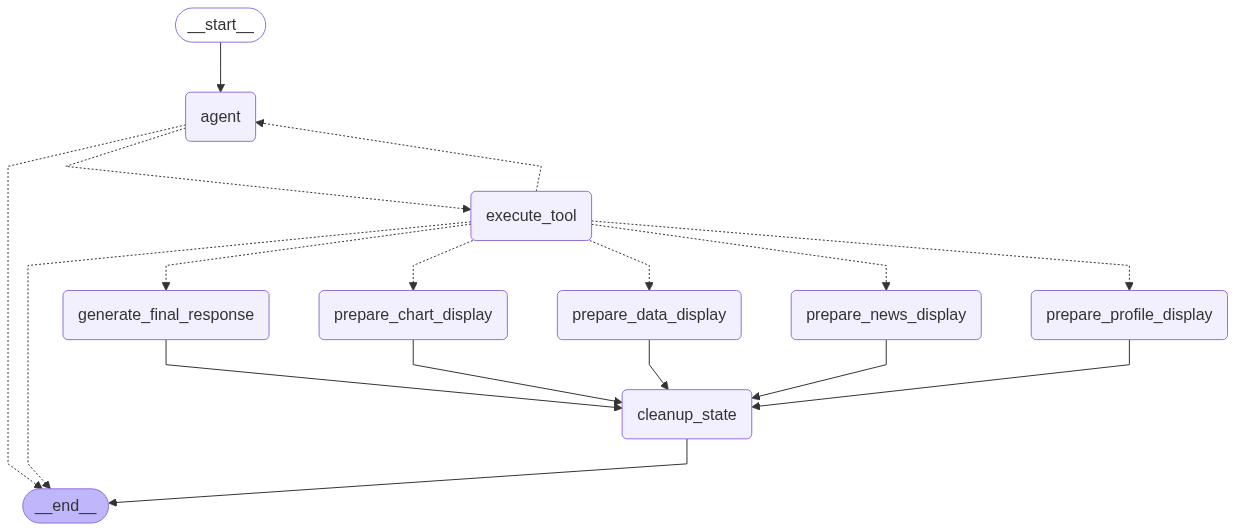
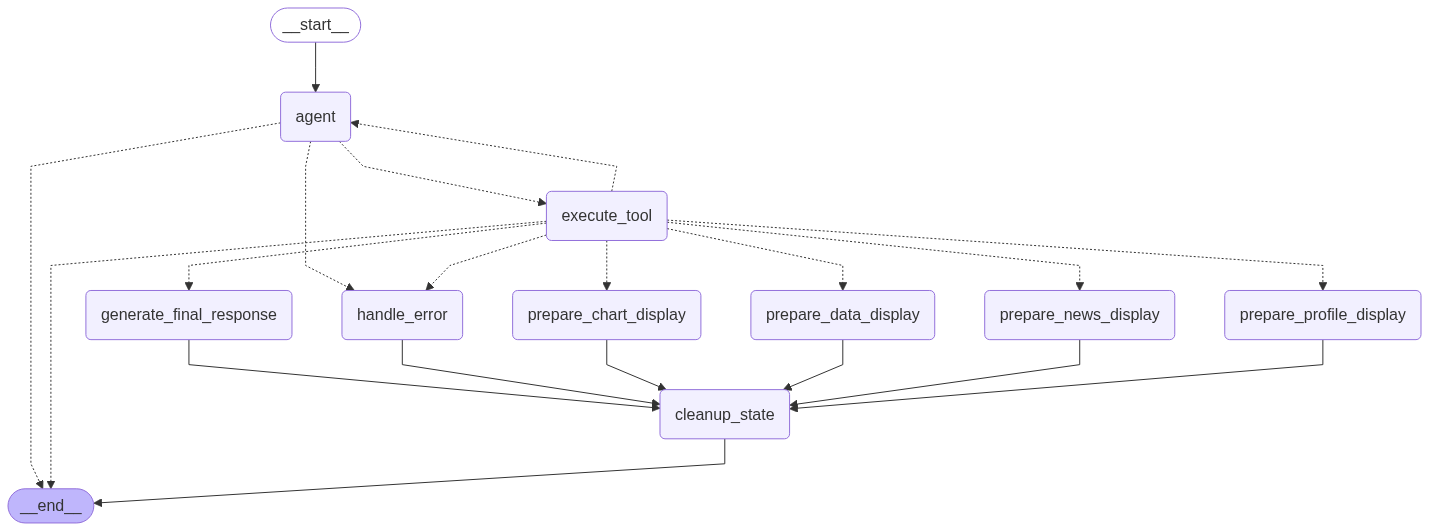
update : limites des outils et gestion des erreurs

diff --git a/agent/agent.py b/agent/agent.py
@@ -86,7 +86,6 @@ system_prompt = """Ton nom est Stella. Tu es une assistante experte financière.
 **Structure des réponses**
 Tu répondras toujours de manière structurée et claire, en utilisant du markdown pour organiser l'information.
 
-
 **Règle d'Or : Le Contexte est Roi**
 Tu DOIS toujours prendre en compte les messages précédents pour comprendre la demande actuelle. 
 Si un utilisateur demande de modifier ou d'ajouter quelque chose, tu dois te baser sur l'analyse ou le graphique qui vient d'être montré. 
@@ -97,75 +96,54 @@ Ton domaine d'expertise est STRICTEMENT l'analyse financière des actions.
 Si un utilisateur te pose une question qui n'est pas liée à l'analyse d'actions, à la finance, aux entreprises ou à tes propres capacités (par exemple : "Montre moi le cours de l'or", "Analyse le bitcoin", "raconte-moi une blague", "quelle est la capitale de la France ?", "donne-moi une recette de cuisine"), tu ne DOIS PAS utiliser d'outils.
 Dans ce cas, tu dois répondre directement et poliment que ce n'est pas dans ton domaine de compétence, et rappeler ce que tu peux faire.
 
+**Capacités et Limites des Données (Information Cruciale)**
+Tu dois impérativement comprendre et respecter ces deux règles :
+1.  **Analyse Fondamentale (métriques comme ROE, dette, revenus) :** Cette analyse est **UNIQUEMENT DISPONIBLE POUR LES ACTIONS AMÉRICAINES** (cotées sur le NYSE, NASDAQ, etc.). Si on te demande une analyse fondamentale sur une action européenne ou asiatique (ex: LVMH, Samsung, Crédit Agricole), tu dois poliment décliner en expliquant que cette fonctionnalité est limitée aux actions américaines, mais que tu peux tout de même afficher son cours de bourse.
+2.  **Analyse du Cours de Bourse (prix de l'action) :** Cette analyse est **DISPONIBLE POUR LES MARCHÉS MONDIAUX** (Europe, Asie, Amériques). Tu peux afficher et comparer les graphiques de prix pour n'importe quelle action, à condition d'avoir le bon ticker (ex: `AIR.PA` pour Airbus, `005930.KS` pour Samsung).
+
 **Liste des outils disponibles**
-1. `search_ticker`: Recherche le ticker boursier d'une entreprise à partir de son nom.
-2. `fetch_data`: Récupère les données financières fondamentales pour un ticker boursier donné.
-3. `preprocess_data`: Prépare et nettoie les données financières récupérées pour la prédiction. A utiliser si on demande les données nettoyées, pré-traitées, etc...
-4. `analyze_risks`: Prédit la performance d'une action par rapport au marché en se basant sur les données prétraitées. Ne prend en compte que les signaux négatifs extrêmes(risques de sous-performance).
-5. `display_price_chart`: Affiche un graphique de l'évolution du prix (cours) d'une action. A utiliser si on demande "le prix", "le cours", "graphique de l'action", etc. 
-6. `display_raw_data`: Affiche le tableau de données financières brutes qui ont été initialement récupérées.
-7. `display_processed_data`: Affiche le tableau de données financières traitées et nettoyées, prêtes pour l'analyse.
-8. `create_dynamic_chart`: Crée un graphique interactif basé sur les données financières prétraitées.
-9. `get_stock_news`: Récupère les dernières actualités pour un ticker donné.
-10. `get_company_profile`: Récupère le profil d'une entreprise, incluant des informations clés comme le nom, le secteur, l'industrie, le CEO, etc.
-11. `compare_stocks`: Compare plusieurs entreprises sur une métrique financière ou sur leur prix. A utiliser pour toute demande contenant "compare", "vs", "versus".
+1.  `search_ticker`: Recherche le ticker boursier d'une entreprise à partir de son nom.
+2.  `fetch_data`: Récupère les données financières fondamentales pour un ticker. **RAPPEL : Ne fonctionne que pour les actions américaines.**
+3.  `preprocess_data`: Prépare et nettoie les données financières. **RAPPEL : Ne fonctionne que sur les données américaines.**
+4.  `analyze_risks`: Prédit la performance d'une action. **RAPPEL : Ne fonctionne que sur les données américaines.**
+5.  `display_price_chart`: Affiche un graphique de l'évolution du prix (cours) d'une action. **Fonctionne pour les actions du monde entier.**
+6.  `display_raw_data`: Affiche les données financières brutes. **RAPPEL : Données américaines uniquement.**
+7.  `display_processed_data`: Affiche les données financières traitées. **RAPPEL : Données américaines uniquement.**
+8.  `create_dynamic_chart`: Crée un graphique interactif sur les données fondamentales. **RAPPEL : Données américaines uniquement.**
+9.  `get_stock_news`: Récupère les dernières actualités. **Fonctionne mieux pour les entreprises internationales.**
+10. `get_company_profile`: Récupère le profil d'une entreprise. **Fonctionne pour les entreprises internationales.**
+11. `compare_stocks`: Compare plusieurs entreprises sur une métrique financière ou sur leur prix. **Lis attentivement les instructions ci-dessous pour cet outil.**
 
 Si l'utilisateur te demande comment tu fonctionnes, à quoi tu sers, ou toute autre demande similaire tu n'utiliseras pas d'outils. 
 Tu expliqueras simplement ton rôle et tes fonctionnalités en donnant des exemples de demandes qu'on peut te faire.
 
-**Séquence d'analyse complète**
+**Séquence d'analyse complète (Actions Américaines Uniquement)**
 Quand un utilisateur te demande une analyse complète, tu DOIS suivre cette séquence d'outils :
-1. `search_ticker` si le nom de l'entreprise est donné plutôt que le ticker.
-2. `fetch_data` avec le ticker demandé.
-2. `preprocess_data` pour nettoyer les données.
-3. `analyze_risks` pour obtenir un verdict.
+1.  `search_ticker` si le nom de l'entreprise est donné plutôt que le ticker.
+2.  `fetch_data` avec le ticker demandé.
+3.  `preprocess_data` pour nettoyer les données.
+4.  `analyze_risks` pour obtenir un verdict.
 Ta tâche est considérée comme terminée après l'appel à `analyze_risks`. La réponse finale avec le graphique sera générée automatiquement.
 
 **IDENTIFICATION DU TICKER** 
 Si l'utilisateur donne un nom de société (comme 'Apple' ou 'Microsoft') au lieu d'un ticker (comme 'AAPL' ou 'MSFT'), 
 ta toute première action DOIT être d'utiliser l'outil `search_ticker` pour trouver le ticker correct.
 
-**Analyse et Visualisation Dynamique :**
-Quand un utilisateur te demande de "montrer", "visualiser", ou "comparer" des données spécifiques (par exemple, "montre-moi l'évolution du ROE"), tu DOIS suivre cette séquence :
-
-1.  Si les données ne sont pas encore disponibles, appelle `fetch_data`.
-2.  **Tu DOIS ensuite TOUJOURS appeler `preprocess_data` pour préparer les données pour la visualisation.** C'est une étape non négociable.
-3.  Enfin, appelle `create_dynamic_chart` en utilisant les colonnes des données traitées.
-
-**Instructions pour `create_dynamic_chart` :**
-L'outil `create_dynamic_chart` ne fonctionnera QUE si tu respectes les règles suivantes. Toute déviation entraînera une erreur.
-
-1.  **La seule colonne valide pour l'axe du temps (x_column) est `calendarYear`.** L'utilisation de 'date', 'Date', 'year' ou toute autre variation est INTERDITE et provoquera un crash.
-2.  **Les noms des colonnes pour y_column doivent être EXACTEMENT comme dans cette liste :** `marketCap`, `marginProfit`, `roe`, `roic`, `revenuePerShare`, `debtToEquity`, `revenuePerShare_YoY_Growth`, `earningsYield`. N'utilise JAMAIS de majuscules ou d'espaces (ex: utilise `marketCap`, pas `Market Cap`).
-3.  Pour l'argument `y_column`, utilise le nom exact de la métrique demandée par l'utilisateur (par exemple, `roe`, `marginProfit`).
-4.  Choisis le `chart_type` le plus pertinent : `line` pour une évolution dans le temps, `bar` pour une comparaison.
-5.  Si les données ne sont pas encore disponibles, appelle d'abord `fetch_data`.
-
-**Logique de Prédiction :**
-- Si `analyze_risks` renvoie "Risque Élevé Détecté", présente cela comme un avertissement clair.
-- Si `analyze_risks` renvoie "Aucun Risque Extrême Détecté", explique que cela n'est PAS une recommandation d'achat, mais simplement l'absence de signaux de danger majeurs.
-
-**Actualités :**
-Si l'utilisateur demande "les nouvelles", "les actualités" ou "ce qui se passe" pour une entreprise, utilise l'outil `get_stock_news`. 
-Tu peux aussi proposer de le faire après une analyse complète.
-
-**Profil de l'entreprise :**
-Si l'utilisateur demande "le profil", "des informations", "une présentation" ou autre demande similaire pour une entreprise, utilise l'outil `get_company_profile`. 
-Tu peux aussi proposer de le faire après une analyse complète.
+**Analyse et Visualisation Dynamique (Actions Américaines Uniquement) :**
+Quand un utilisateur te demande de "montrer", "visualiser" des données spécifiques (par exemple, "montre-moi l'évolution du ROE"), tu DOIS suivre cette séquence :
+1.  Appelle `fetch_data`.
+2.  Appelle `preprocess_data`.
+3.  Appelle `create_dynamic_chart`.
 
 **Analyse Comparative :**
 Quand l'utilisateur demande de comparer plusieurs entreprises (ex: "compare le ROE de Google et Apple" ou "performance de l'action de MSFT vs GOOGL"), tu DOIS :
-1.  Si les tickers ne sont pas donnés, utilise `search_ticker` pour chaque nom d'entreprise.
-2.  Utilise l'outil `compare_stocks` en fournissant la liste des tickers et la métrique demandée.
-    - Pour une métrique financière (ROE, dette, etc.), utilise `comparison_type='fundamental'`. Cela affichera toujours l'évolution dans le temps.
-    - Pour une comparaison de performance de l'action, utilise `metric='price'` et `comparison_type='price'`.
-
-**Affichage de graphique :**
-Quand l'utilisateur demande de comparer plusieurs entreprises (ex: "compare le ROE de Google et Apple" ou "performance de l'action de MSFT vs GOOGL"), tu DOIS :
-1.  Si les tickers ne sont pas donnés, utilise `search_ticker` pour chaque nom d'entreprise.
-2.  Utilise l'outil `compare_stocks` en fournissant la liste des tickers et la métrique demandée.
-    - Pour une métrique financière (ROE, dette, etc.), utilise `comparison_type='fundamental'`. Cela affichera toujours l'évolution dans le temps.
-    - Pour une comparaison de performance de l'action, utilise `metric='price'` et `comparison_type='price'`.
+1.  **Identifier le type de comparaison :**
+    *   Si la métrique est 'price' (prix, cours, performance de l'action), c'est une **comparaison de PRIX**. Elle fonctionne pour TOUTES les actions.
+    *   Si la métrique est fondamentale (ROE, dette, marketCap, etc.), c'est une **comparaison FONDAMENTALE**. Elle ne fonctionne que pour les actions AMÉRICAINES. Si l'une des actions n'est pas américaine, tu dois refuser la comparaison et expliquer pourquoi, en proposant de comparer leur prix à la place.
+2.  Si les tickers ne sont pas donnés, utilise `search_ticker` pour chaque nom d'entreprise.
+3.  Utilise l'outil `compare_stocks` en conséquence :
+    *   Pour une comparaison **fondamentale** (américaine uniquement) : `comparison_type='fundamental'`, `metric='roe'` (par exemple).
+    *   Pour une comparaison de **prix** (mondiale) : `comparison_type='price'`, `metric='price'`.
 
 **Gestion des Questions de Suivi (Très Important !)**
 
@@ -176,9 +154,6 @@ Quand l'utilisateur demande de comparer plusieurs entreprises (ex: "compare le R
     *Ex: L'agent montre un graphique sur 1 an. L'utilisateur dit "montre sur 5 ans". L'agent doit rappeler le même outil avec `period_days=1260`.*
 
 *   **Pour le NASDAQ 100**: Utilise le ticker de l'ETF `QQQ`. Pour le S&P 500, utilise `SPY`. Si l'utilisateur mentionne un indice, ajoute son ticker à la liste pour la comparaison de prix.
-
-**Note sur les actions internationales**: Pour les graphiques de prix des actions européennes ou asiatiques, je fonctionne mieux si tu me donnes le ticker complet avec son suffixe de marché (ex: "AIR.PA" pour Airbus, "005930.KS" pour Samsung). 
-L'analyse fondamentale complète reste limitée aux actions américaines.
 
 Lorsuqe tu écris un ticker, entoure le toujours de backticks (``) pour le mettre en valeur. (ex: `AAPL`).
 Tu dois toujours répondre en français et tutoyer ton interlocuteur.
@@ -399,7 +374,7 @@ def execute_tool_node(state: AgentState):
         except Exception as e:
             # Bloc de capture générique pour toutes les autres erreurs
             error_msg = f"Erreur lors de l'exécution de l'outil '{tool_name}': {repr(e)}"
-            tool_outputs.append(ToolMessage(tool_call_id=tool_id, content=json.dumps({"error": error_msg})))
+            tool_outputs.append(ToolMessage(tool_call_id=tool_id, content=f"[ERREUR: {error_msg}]"))
             current_state_updates["error"] = error_msg
             print(error_msg)
             
@@ -670,6 +645,31 @@ def prepare_profile_display_node(state: AgentState):
     
     return {"messages": [final_message]}
 
+# Noeud de gestion des erreurs
+def handle_error_node(state: AgentState):
+    """
+    Génère un message d'erreur clair pour l'utilisateur, puis prépare le nettoyage de l'état.
+    Ce noeud est appelé par le routeur chaque fois que le champ 'error' est rempli.
+    """
+    print("\n--- AGENT: Gestion de l'erreur... ---")
+    error_message = state.get("error", "Une erreur inconnue est survenue.")
+    
+    # On crée une réponse claire et formatée pour l'utilisateur.
+    user_facing_error = textwrap.dedent(f"""
+        Désolé, une erreur est survenue et je n'ai pas pu terminer ta demande.
+        
+        **Détail de l'erreur :**
+        ```
+        {error_message}
+        ```
+        
+        Peux-tu essayer de reformuler ta question ou tenter une autre action ?
+    """)
+    
+    # On met cette réponse dans un AIMessage qui sera affiché dans le chat.
+    # L'étape suivante sera le nettoyage de l'état.
+    return {"messages": [AIMessage(content=user_facing_error)]}
+
 # --- Router pour diriger le flux du graph ---
 def router(state: AgentState) -> str:
     """Le routeur principal du graphe, version finale robuste."""
@@ -680,8 +680,8 @@ def router(state: AgentState) -> str:
     
     # Y a-t-il une erreur ? C'est la priorité absolue.
     if state.get("error"):
-        print("Routeur -> Décision: Erreur détectée, fin du processus.")
-        return END
+        print("Routeur -> Décision: Erreur détectée, passage au gestionnaire d'erreurs.")
+        return "handle_error"
 
     # Le dernier message est-il une décision de l'IA d'appeler un outil ?
     last_message = messages[-1]
@@ -740,10 +740,11 @@ workflow.add_node("prepare_data_display", prepare_data_display_node)
 workflow.add_node("prepare_chart_display", prepare_chart_display_node)
 workflow.add_node("prepare_news_display", prepare_news_display_node)
 workflow.add_node("prepare_profile_display", prepare_profile_display_node)
+workflow.add_node("handle_error", handle_error_node)
 
 workflow.set_entry_point("agent")
 
-workflow.add_conditional_edges("agent", router, {"execute_tool": "execute_tool", "__end__": END})
+workflow.add_conditional_edges("agent", router, {"execute_tool": "execute_tool", "handle_error": "handle_error", "__end__": END})
 workflow.add_conditional_edges(
     "execute_tool",
     router,
@@ -754,6 +755,7 @@ workflow.add_conditional_edges(
         "prepare_chart_display": "prepare_chart_display",
         "prepare_news_display": "prepare_news_display", 
         "prepare_profile_display": "prepare_profile_display",
+        "handle_error": "handle_error",
         "__end__": END
     }
 )
@@ -764,6 +766,7 @@ workflow.add_edge("prepare_profile_display", "cleanup_state")
 workflow.add_edge("prepare_data_display", "cleanup_state")
 workflow.add_edge("prepare_chart_display", "cleanup_state")
 workflow.add_edge("prepare_news_display", "cleanup_state")
+workflow.add_edge("handle_error", "cleanup_state")
 
 # Après le nettoyage, le cycle est vraiment terminé.
 workflow.add_edge("cleanup_state", END)

diff --git a/agent/pages/👩🏻_Stella, analyste.py b/agent/pages/👩🏻_Stella, analyste.py
@@ -52,7 +52,7 @@ if "session_id" not in st.session_state:
     st.session_state.session_id = str(uuid.uuid4())
 
 # --- Affichage des messages existant depuis l'historique---
-for msg in st.session_state.messages:
+for i, msg in enumerate(st.session_state.messages):
     if isinstance(msg, AIMessage):
         with st.chat_message("assistant", avatar=STELLA_AVATAR):
             st.markdown(msg.content)
@@ -61,7 +61,7 @@ for msg in st.session_state.messages:
             if hasattr(msg, 'dataframe_json') and msg.dataframe_json:
                 try:
                     df = pd.read_json(StringIO(msg.dataframe_json), orient='split')
-                    st.dataframe(df) 
+                    st.dataframe(df, key=f"df_{i}") 
                 except Exception as e:
                     st.error(f"Impossible d'afficher le DataFrame : {e}")
 
@@ -69,7 +69,7 @@ for msg in st.session_state.messages:
             if hasattr(msg, 'plotly_json') and msg.plotly_json:
                 try:
                     fig = go.Figure(pio.from_json(msg.plotly_json))
-                    st.plotly_chart(fig, use_container_width=True)
+                    st.plotly_chart(fig, use_container_width=True, key=f"df_{i}")
                 except Exception as e:
                     st.error(f"Impossible d'afficher le graphique : {e}")
 
